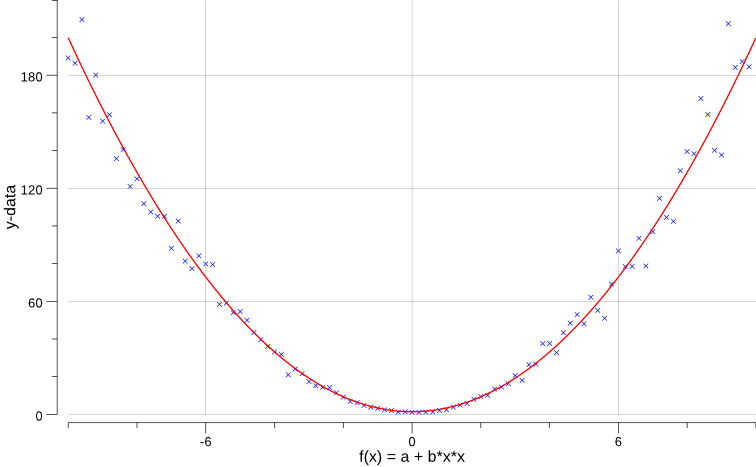
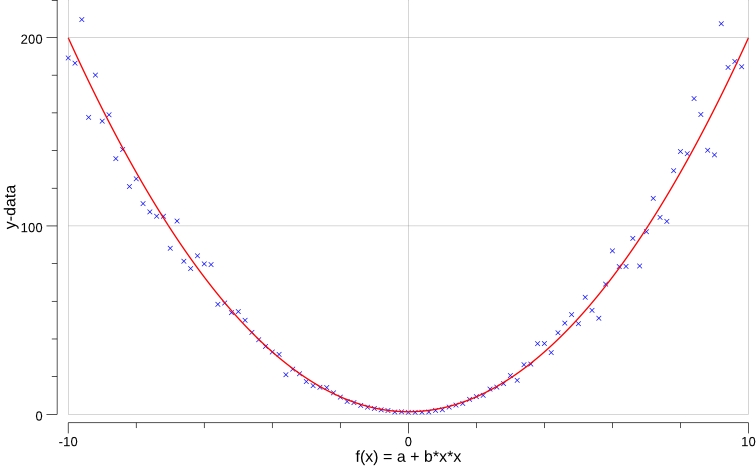
all: update for new gonum/plot ticks

diff --git a/hplot/testdata/latex_plot_golden.tex b/hplot/testdata/latex_plot_golden.tex
@@ -30,15 +30,7 @@
   \color[rgb]{0,0,0}
   \pgfsetstrokeopacity{1}
   \pgfsetfillopacity{1}
-  \pgftext[base,at={\pgfpoint{146.27540888748769pt}{15.5986328125pt}}]{-2}
-  \color[rgb]{0,0,0}
-  \pgfsetstrokeopacity{1}
-  \pgfsetfillopacity{1}
   \pgftext[base,at={\pgfpoint{238.3223021499754pt}{15.5986328125pt}}]{0}
-  \color[rgb]{0,0,0}
-  \pgfsetstrokeopacity{1}
-  \pgfsetfillopacity{1}
-  \pgftext[base,at={\pgfpoint{330.3691954124631pt}{15.5986328125pt}}]{2}
   \color[rgb]{0,0,0}
   \pgfsetstrokeopacity{1}
   \pgfsetfillopacity{1}
@@ -55,24 +47,8 @@
   \color[rgb]{0,0,0}
   \pgfsetstrokeopacity{1}
   \pgfsetfillopacity{1}
-  \pgfpathmoveto{\pgfpoint{146.27540888748769pt}{25.1982421875pt}}
-  \pgflineto{\pgfpoint{146.27540888748769pt}{33.1982421875pt}}
-  \pgfusepath{stroke}
-  
-  \pgfsetlinewidth{0.5pt}
-  \color[rgb]{0,0,0}
-  \pgfsetstrokeopacity{1}
-  \pgfsetfillopacity{1}
   \pgfpathmoveto{\pgfpoint{238.3223021499754pt}{25.1982421875pt}}
   \pgflineto{\pgfpoint{238.3223021499754pt}{33.1982421875pt}}
-  \pgfusepath{stroke}
-  
-  \pgfsetlinewidth{0.5pt}
-  \color[rgb]{0,0,0}
-  \pgfsetstrokeopacity{1}
-  \pgfsetfillopacity{1}
-  \pgfpathmoveto{\pgfpoint{330.3691954124631pt}{25.1982421875pt}}
-  \pgflineto{\pgfpoint{330.3691954124631pt}{33.1982421875pt}}
   \pgfusepath{stroke}
   
   \pgfsetlinewidth{0.5pt}
@@ -95,6 +71,14 @@
   \color[rgb]{0,0,0}
   \pgfsetstrokeopacity{1}
   \pgfsetfillopacity{1}
+  \pgfpathmoveto{\pgfpoint{146.27540888748769pt}{29.1982421875pt}}
+  \pgflineto{\pgfpoint{146.27540888748769pt}{33.1982421875pt}}
+  \pgfusepath{stroke}
+  
+  \pgfsetlinewidth{0.5pt}
+  \color[rgb]{0,0,0}
+  \pgfsetstrokeopacity{1}
+  \pgfsetfillopacity{1}
   \pgfpathmoveto{\pgfpoint{192.29885551873156pt}{29.1982421875pt}}
   \pgflineto{\pgfpoint{192.29885551873156pt}{33.1982421875pt}}
   \pgfusepath{stroke}
@@ -105,6 +89,14 @@
   \pgfsetfillopacity{1}
   \pgfpathmoveto{\pgfpoint{284.34574878121924pt}{29.1982421875pt}}
   \pgflineto{\pgfpoint{284.34574878121924pt}{33.1982421875pt}}
+  \pgfusepath{stroke}
+  
+  \pgfsetlinewidth{0.5pt}
+  \color[rgb]{0,0,0}
+  \pgfsetstrokeopacity{1}
+  \pgfsetfillopacity{1}
+  \pgfpathmoveto{\pgfpoint{330.3691954124631pt}{29.1982421875pt}}
+  \pgflineto{\pgfpoint{330.3691954124631pt}{33.1982421875pt}}
   \pgfusepath{stroke}
   
   \pgfsetlinewidth{0.5pt}
@@ -397,24 +389,8 @@
   \color[rgb]{0.5019607843137255,0.5019607843137255,0.5019607843137255}
   \pgfsetstrokeopacity{1}
   \pgfsetfillopacity{1}
-  \pgfpathmoveto{\pgfpoint{146.27540888748769pt}{38.4482421875pt}}
-  \pgflineto{\pgfpoint{146.27540888748769pt}{242.38766795271118pt}}
-  \pgfusepath{stroke}
-  
-  \pgfsetlinewidth{0.25pt}
-  \color[rgb]{0.5019607843137255,0.5019607843137255,0.5019607843137255}
-  \pgfsetstrokeopacity{1}
-  \pgfsetfillopacity{1}
   \pgfpathmoveto{\pgfpoint{238.3223021499754pt}{38.4482421875pt}}
   \pgflineto{\pgfpoint{238.3223021499754pt}{242.38766795271118pt}}
-  \pgfusepath{stroke}
-  
-  \pgfsetlinewidth{0.25pt}
-  \color[rgb]{0.5019607843137255,0.5019607843137255,0.5019607843137255}
-  \pgfsetstrokeopacity{1}
-  \pgfsetfillopacity{1}
-  \pgfpathmoveto{\pgfpoint{330.3691954124631pt}{38.4482421875pt}}
-  \pgflineto{\pgfpoint{330.3691954124631pt}{242.38766795271118pt}}
   \pgfusepath{stroke}
   
   \pgfsetlinewidth{0.25pt}
